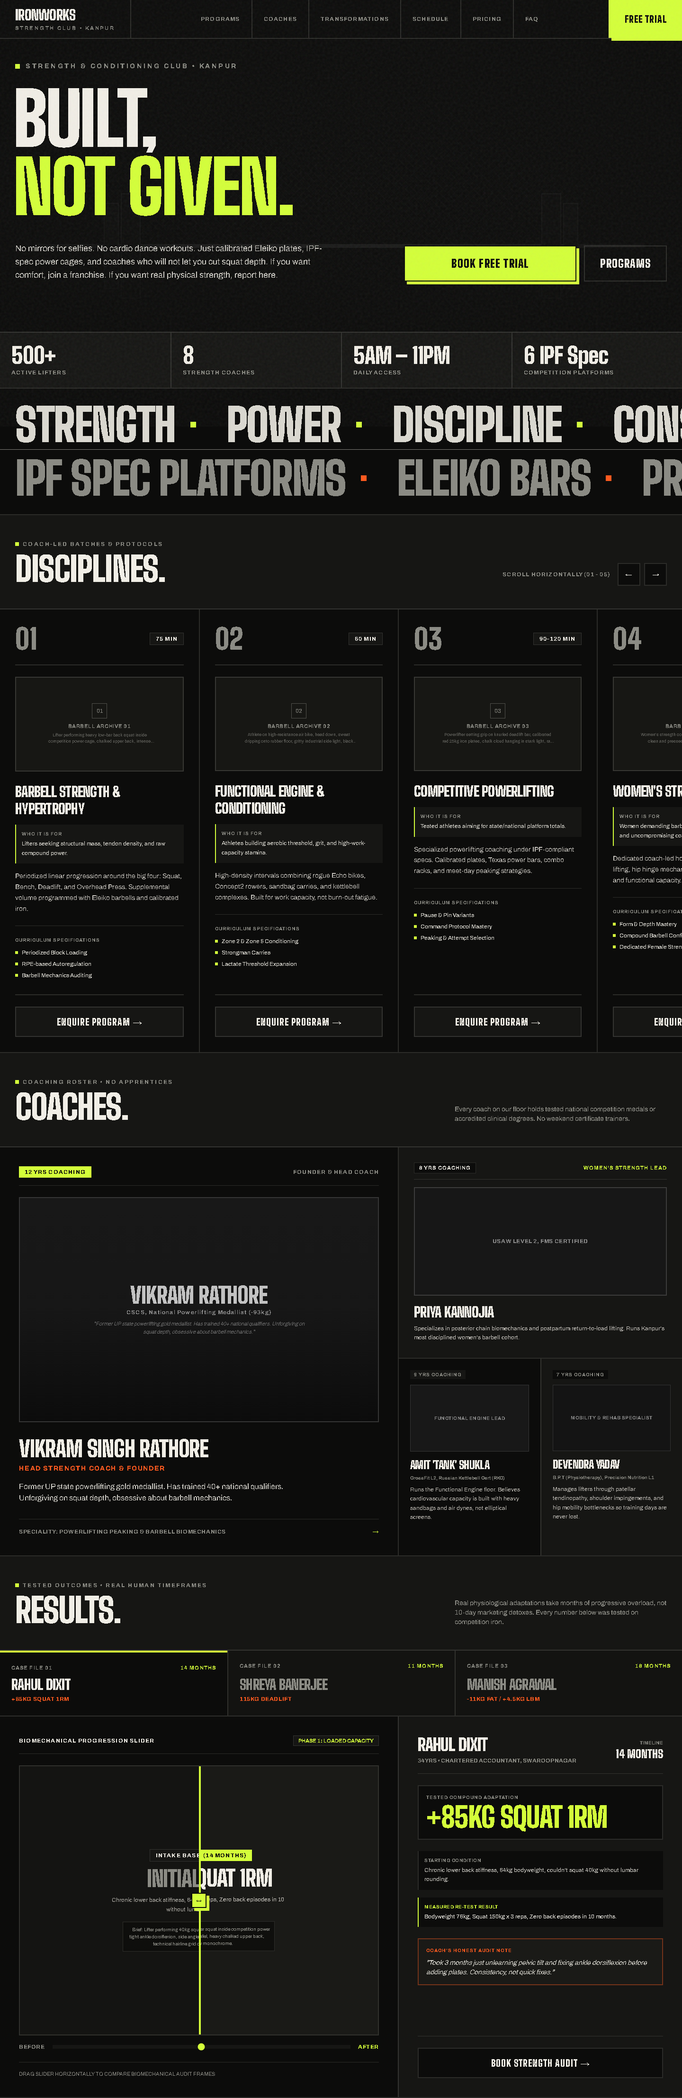
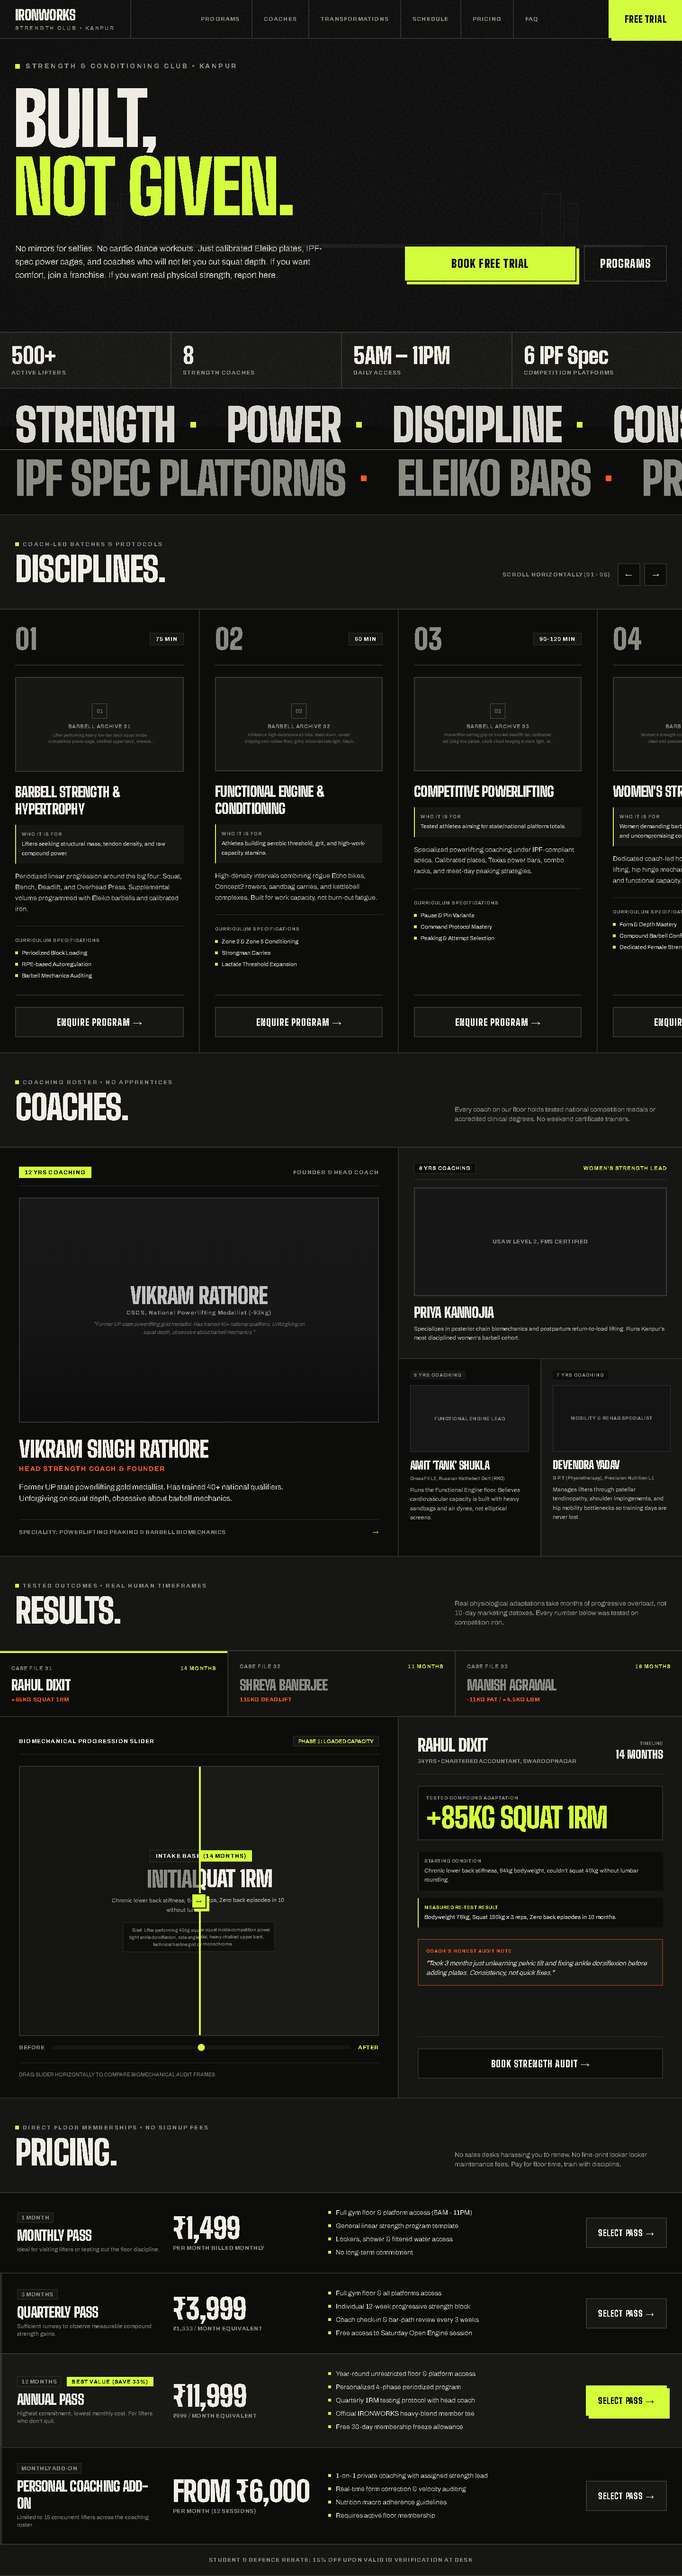
feat: pricing section

diff --git a/components/Pricing.tsx b/components/Pricing.tsx
@@ -1,0 +1,113 @@
+"use client";
+
+import React from "react";
+import { PRICING_PLANS } from "@/content/site";
+
+export default function Pricing() {
+  return (
+    <section id="pricing" className="relative bg-bg border-b-2 border-hairline overflow-hidden">
+      {/* Section Header */}
+      <div className="border-b-2 border-hairline bg-surface">
+        <div className="max-w-[1440px] mx-auto px-4 md:px-8 py-8 md:py-12 flex flex-col md:flex-row md:items-end justify-between gap-6">
+          <div>
+            <div className="inline-flex items-center gap-2 mb-2">
+              <span className="w-2 h-2 bg-primary" />
+              <span className="font-body text-xs font-bold tracking-[0.2em] text-muted uppercase">
+                DIRECT FLOOR MEMBERSHIPS • NO SIGNUP FEES
+              </span>
+            </div>
+            <h2 className="font-heading text-4xl sm:text-6xl md:text-7xl font-black uppercase tracking-tight text-text leading-none">
+              PRICING.
+            </h2>
+          </div>
+          <p className="font-body text-xs md:text-sm text-muted max-w-md font-medium leading-relaxed">
+            No sales desks harassing you to renew. No fine-print locker locker maintenance fees. Pay for floor time, train with discipline.
+          </p>
+        </div>
+      </div>
+
+      {/* Horizontal Table / Rows Ledger (NOT 3 cards) */}
+      <div className="max-w-[1440px] mx-auto divide-y-2 divide-hairline">
+        {PRICING_PLANS.map((plan) => (
+          <div
+            key={plan.name}
+            className={`p-6 md:p-8 transition-colors group relative flex flex-col lg:flex-row lg:items-center justify-between gap-6 ${
+              plan.isPopular
+                ? "bg-[#181815] border-l-4 border-l-primary"
+                : "bg-bg hover:bg-[#141412] border-l-4 border-l-transparent hover:border-l-hairline"
+            }`}
+          >
+            {/* Column 1: Plan Title & Duration */}
+            <div className="lg:w-1/4">
+              <div className="flex items-center gap-3">
+                <span className="font-body text-xs font-bold px-2 py-0.5 bg-surface border border-hairline text-muted uppercase tracking-wider">
+                  {plan.duration}
+                </span>
+                {plan.isPopular && (
+                  <span className="font-body text-[11px] font-black px-2.5 py-0.5 bg-primary text-bg uppercase tracking-widest">
+                    BEST VALUE (SAVE 33%)
+                  </span>
+                )}
+              </div>
+              <h3 className="font-heading text-2xl md:text-3xl font-black uppercase tracking-tight text-text mt-2 group-hover:text-primary transition-colors">
+                {plan.name}
+              </h3>
+              <p className="font-body text-xs text-muted mt-1">
+                {plan.note}
+              </p>
+            </div>
+
+            {/* Column 2: Price & Cadence */}
+            <div className="lg:w-1/4 lg:text-left">
+              <div className="flex items-baseline gap-2">
+                <span className="font-heading text-4xl sm:text-5xl md:text-6xl font-black text-text tracking-tight group-hover:text-primary transition-colors">
+                  {plan.price}
+                </span>
+              </div>
+              <span className="font-body text-xs font-bold text-muted uppercase tracking-wider block mt-1">
+                {plan.cadence}
+              </span>
+            </div>
+
+            {/* Column 3: Features Checklist */}
+            <div className="lg:w-2/5">
+              <ul className="space-y-2">
+                {plan.features.map((feature) => (
+                  <li key={feature} className="flex items-start gap-2.5">
+                    <span className="w-1.5 h-1.5 bg-primary mt-1.5 shrink-0" />
+                    <span className="font-body text-xs md:text-sm text-text/85">
+                      {feature}
+                    </span>
+                  </li>
+                ))}
+              </ul>
+            </div>
+
+            {/* Column 4: WhatsApp Action CTA */}
+            <div className="lg:w-1/6 flex justify-end">
+              <a
+                href={`https://wa.me/919000000000?text=Hi%20IRONWORKS%2C%20I%20want%20to%20enroll%20for%20the%20${encodeURIComponent(plan.name)}%20(${encodeURIComponent(plan.price)}).`}
+                target="_blank"
+                rel="noopener noreferrer"
+                className={`w-full lg:w-auto px-6 py-4 font-heading text-lg font-black tracking-wider uppercase border-2 text-center transition-all cursor-pointer ${
+                  plan.isPopular
+                    ? "bg-primary text-bg border-primary hover:bg-text hover:text-bg hover:border-text shadow-hard-lime"
+                    : "bg-surface text-text border-hairline group-hover:bg-primary group-hover:text-bg group-hover:border-primary"
+                }`}
+              >
+                SELECT PASS →
+              </a>
+            </div>
+          </div>
+        ))}
+      </div>
+
+      {/* Bottom Transparency Bar */}
+      <div className="border-t-2 border-hairline bg-surface p-4 md:p-6 text-center">
+        <p className="font-body text-xs text-muted uppercase tracking-widest font-bold">
+          STUDENT & DEFENCE REBATE: 15% OFF UPON VALID ID VERIFICATION AT DESK
+        </p>
+      </div>
+    </section>
+  );
+}

diff --git a/app/page.tsx b/app/page.tsx
@@ -4,6 +4,7 @@ import Marquee from "@/components/Marquee";
 import Programs from "@/components/Programs";
 import Coaches from "@/components/Coaches";
 import Transformations from "@/components/Transformations";
+import Pricing from "@/components/Pricing";
 
 export default function Home() {
   return (
@@ -14,6 +15,7 @@ export default function Home() {
       <Programs />
       <Coaches />
       <Transformations />
+      <Pricing />
     </main>
   );
 }
